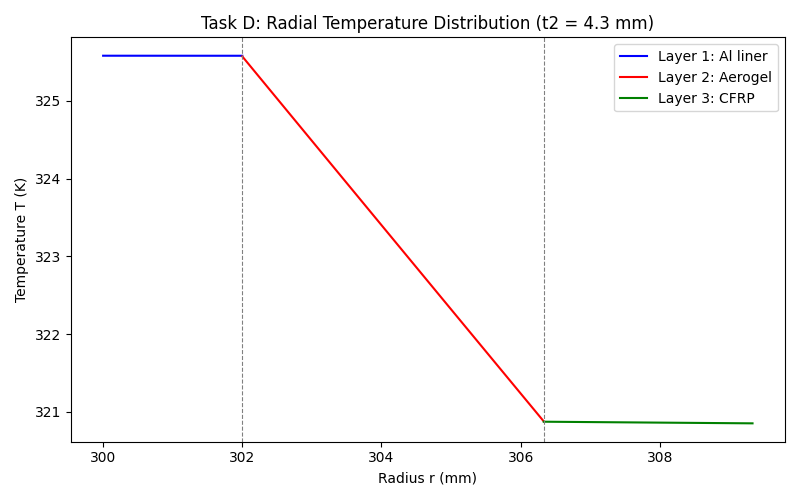
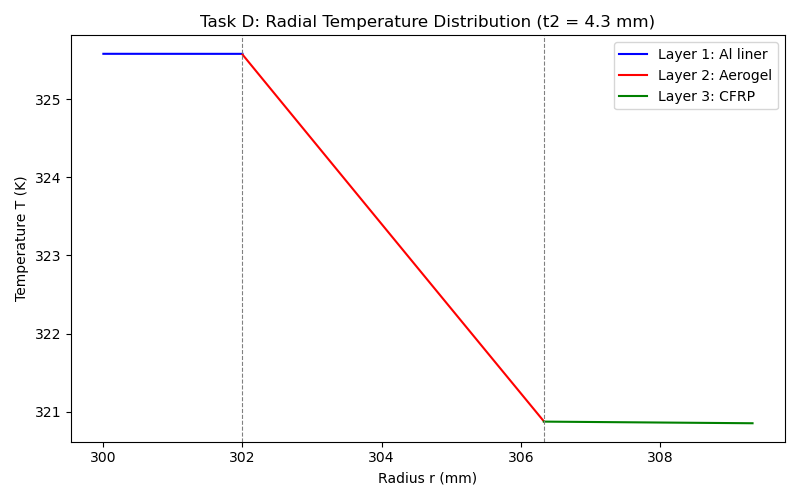
final——without comment

diff --git a/Heat_Transfer/Computing HW 1/cp1_base.py b/Heat_Transfer/Computing HW 1/cp1_base.py
@@ -1,6 +1,8 @@
 """
 cp1_base.py — 530.334 Heat Transfer, CP1
 Satellite thermal model: 1D radial steady-state solver.
+Method: Finite-Difference Method (FDM) with Picard iteration.
+Convergence criterion: max node temperature change < 1e-6 K.
 """
 
 import numpy as np
@@ -29,23 +31,6 @@ def k2(T):
 
 def k3(T):
     return 6.0 * (1.0 + 1.0e-4 * (T - 300.0))
-
-# FD marching: integrate dT/dr = -Q/(4*pi*r^2*k(T)) using RK2
-def _march_layer(r_start, r_end, T_start, k_func, Q, N=20):
-    r_arr = np.linspace(r_start, r_end, N)
-    dr = r_arr[1] - r_arr[0]
-    T_arr = np.zeros(N)
-    T_arr[0] = T_start
-
-    for i in range(N - 1):
-        r, T = r_arr[i], T_arr[i]
-        dTdr1 = -Q / (4.0 * np.pi * r**2 * k_func(T))
-        r_m = r + 0.5 * dr
-        T_m = T + 0.5 * dr * dTdr1
-        dTdr2 = -Q / (4.0 * np.pi * r_m**2 * k_func(T_m))
-        T_arr[i + 1] = T + dr * dTdr2
-
-    return r_arr, T_arr
 
 # Contact resistances [m^2*K/W]
 RC12_PP = 2.0e-4  # Al / Aerogel at r1
@@ -87,53 +72,180 @@ def Q_rad_net(Ts, r3):
                 - a * G_SOL_FAC * G_SOL
                 - e * G_MERC_FAC * G_MERC)
 
-# Core solver: march from outer surface inward
-def solve(t2, Q_int=Q_INT_DEFAULT, N=20):
+def solve(t2, Q_int=Q_INT_DEFAULT, N=20, tol=1e-6, max_iter=500, omega=1.0):
     r0, r1, r2, r3 = get_radii(t2)
     Q = Q_int
 
-    # Outer surface temp from radiation balance
+    # Outer surface temperature from radiation balance
     Ts = brentq(lambda T: Q_rad_net(T, r3) - Q, 100.0, 1500.0)
 
-    # Layer 3 (CFRP) inward
-    r_L3, T_L3 = _march_layer(r3, r2, Ts, k3, Q, N)
-    T2p = T_L3[-1]
+    # FDM node arrays for each layer
+    r_L1 = np.linspace(r0, r1, N)
+    r_L2 = np.linspace(r1, r2, N)
+    r_L3 = np.linspace(r2, r3, N)
+    dr1 = r_L1[1] - r_L1[0]
+    dr2 = r_L2[1] - r_L2[0]
+    dr3 = r_L3[1] - r_L3[0]
 
-    # Contact resistance at r2
-    dTc23 = Q * RC23_PP / (4.0 * np.pi * r2**2)
-    T2m = T2p + dTc23
+    # Unknowns: [Tg, T1[0..N-1], T2[0..N-1], T3[0..N-1]]
+    n_total = 1 + 3 * N
+    i1 = 1
+    i2 = N + 1
+    i3 = 2 * N + 1
 
-    # Layer 2 (Aerogel) inward
-    r_L2, T_L2 = _march_layer(r2, r1, T2m, k2, Q, N)
-    T1p = T_L2[-1]
+    T_vec = np.zeros(n_total)
+    T_vec[0]       = Ts + 40
+    T_vec[i1:i1+N] = np.linspace(Ts + 30, Ts + 20, N)
+    T_vec[i2:i2+N] = np.linspace(Ts + 20, Ts + 5,  N)
+    T_vec[i3:i3+N] = np.linspace(Ts + 5,  Ts,      N)
 
-    # Contact resistance at r1
-    dTc12 = Q * RC12_PP / (4.0 * np.pi * r1**2)
-    T1m = T1p + dTc12
+    converged = False
+    for iteration in range(max_iter):
+        T_old = T_vec.copy()
 
-    # Layer 1 (Al) inward
-    r_L1, T_L1 = _march_layer(r1, r0, T1m, k1, Q, N)
-    Tw = T_L1[-1]
+        Tg_c = T_old[0]
+        T1c  = T_old[i1:i1+N]
+        T2c  = T_old[i2:i2+N]
+        T3c  = T_old[i3:i3+N]
 
-    # Cavity gas temp from convection balance
-    Tg = brentq(
-        lambda T: h_inner(T, Tw) * 4.0 * np.pi * r0**2 * (T - Tw) - Q_int,
-        Tw + 1e-3, Tw + 2000.0
-    )
+        A = np.zeros((n_total, n_total))
+        b = np.zeros(n_total)
 
-    # Build outward profile (reverse each layer)
-    r_profile = np.concatenate([r_L1[::-1], r_L2[::-1], r_L3[::-1]])
-    T_profile = np.concatenate([T_L1[::-1], T_L2[::-1], T_L3[::-1]])
+        # Row 0: cavity gas energy balance
+        hi = h_inner(Tg_c, T1c[0])
+        a0 = hi * r0**2
+        A[0, 0]  =  a0
+        A[0, i1] = -a0
+        b[0] = Q_int / (4.0 * np.pi)
+
+        # Layer 1 (Al): node 0 — convection in = conduction out
+        r_ph = 0.5 * (r_L1[0] + r_L1[1])
+        k_ph = k1(0.5 * (T1c[0] + T1c[1]))
+        cp = r_ph**2 * k_ph / dr1
+        A[i1, 0]    =  a0
+        A[i1, i1]   = -(a0 + cp)
+        A[i1, i1+1] =  cp
+
+        # Interior nodes
+        for i in range(1, N - 1):
+            r_ph = 0.5 * (r_L1[i] + r_L1[i+1])
+            r_mh = 0.5 * (r_L1[i] + r_L1[i-1])
+            kp = k1(0.5 * (T1c[i] + T1c[i+1]))
+            km = k1(0.5 * (T1c[i] + T1c[i-1]))
+            cp = r_ph**2 * kp / dr1
+            cm = r_mh**2 * km / dr1
+            row = i1 + i
+            A[row, row - 1] =  cm
+            A[row, row]     = -(cm + cp)
+            A[row, row + 1] =  cp
+
+        # Node N-1 at r1: conduction in = contact resistance out
+        r_mh = 0.5 * (r_L1[N-2] + r_L1[N-1])
+        km = k1(0.5 * (T1c[N-2] + T1c[N-1]))
+        cm = r_mh**2 * km / dr1
+        cr = r1**2 / RC12_PP
+        row = i1 + N - 1
+        A[row, row - 1] =  cm
+        A[row, row]     = -(cm + cr)
+        A[row, i2]      =  cr
+
+        # Layer 2 (Aerogel): node 0 — contact resistance in = conduction out
+        r_ph = 0.5 * (r_L2[0] + r_L2[1])
+        kp = k2(0.5 * (T2c[0] + T2c[1]))
+        cp = r_ph**2 * kp / dr2
+        cr = r1**2 / RC12_PP
+        A[i2, i1 + N - 1] =  cr
+        A[i2, i2]          = -(cr + cp)
+        A[i2, i2 + 1]     =  cp
+
+        # Interior nodes
+        for i in range(1, N - 1):
+            r_ph = 0.5 * (r_L2[i] + r_L2[i+1])
+            r_mh = 0.5 * (r_L2[i] + r_L2[i-1])
+            kp = k2(0.5 * (T2c[i] + T2c[i+1]))
+            km = k2(0.5 * (T2c[i] + T2c[i-1]))
+            cp = r_ph**2 * kp / dr2
+            cm = r_mh**2 * km / dr2
+            row = i2 + i
+            A[row, row - 1] =  cm
+            A[row, row]     = -(cm + cp)
+            A[row, row + 1] =  cp
+
+        # Node N-1 at r2: conduction in = contact resistance out
+        r_mh = 0.5 * (r_L2[N-2] + r_L2[N-1])
+        km = k2(0.5 * (T2c[N-2] + T2c[N-1]))
+        cm = r_mh**2 * km / dr2
+        cr = r2**2 / RC23_PP
+        row = i2 + N - 1
+        A[row, row - 1] =  cm
+        A[row, row]     = -(cm + cr)
+        A[row, i3]      =  cr
+
+        # Layer 3 (CFRP): node 0 — contact resistance in = conduction out
+        r_ph = 0.5 * (r_L3[0] + r_L3[1])
+        kp = k3(0.5 * (T3c[0] + T3c[1]))
+        cp = r_ph**2 * kp / dr3
+        cr = r2**2 / RC23_PP
+        A[i3, i2 + N - 1] =  cr
+        A[i3, i3]          = -(cr + cp)
+        A[i3, i3 + 1]     =  cp
+
+        # Interior nodes
+        for i in range(1, N - 1):
+            r_ph = 0.5 * (r_L3[i] + r_L3[i+1])
+            r_mh = 0.5 * (r_L3[i] + r_L3[i-1])
+            kp = k3(0.5 * (T3c[i] + T3c[i+1]))
+            km = k3(0.5 * (T3c[i] + T3c[i-1]))
+            cp = r_ph**2 * kp / dr3
+            cm = r_mh**2 * km / dr3
+            row = i3 + i
+            A[row, row - 1] =  cm
+            A[row, row]     = -(cm + cp)
+            A[row, row + 1] =  cp
+
+        # Node N-1 at r3: T = Ts
+        row = i3 + N - 1
+        A[row, row] = 1.0
+        b[row] = Ts
+
+        T_new = np.linalg.solve(A, b)
+        T_vec = omega * T_new + (1.0 - omega) * T_old
+
+        if np.max(np.abs(T_vec - T_old)) < tol:
+            converged = True
+            break
+
+    if not converged:
+        print(f"WARNING: Picard did not converge in {max_iter} iterations "
+              f"(max dT = {np.max(np.abs(T_vec - T_old)):.2e} K)")
+
+    Tg     = T_vec[0]
+    T1_arr = T_vec[i1:i1+N]
+    T2_arr = T_vec[i2:i2+N]
+    T3_arr = T_vec[i3:i3+N]
+
+    Tw  = T1_arr[0]
+    T1m = T1_arr[-1]
+    T1p = T2_arr[0]
+    T2m = T2_arr[-1]
+    T2p = T3_arr[0]
+
+    dTc12 = T1m - T1p
+    dTc23 = T2m - T2p
+
+    r_profile = np.concatenate([r_L1, r_L2, r_L3])
+    T_profile = np.concatenate([T1_arr, T2_arr, T3_arr])
 
     return {
         'Tg': Tg, 'Tw': Tw,
         'T1m': T1m, 'T1p': T1p,
         'T2m': T2m, 'T2p': T2p,
-        'Ts': Ts, 'Q': Q,
+        'Ts': T3_arr[-1], 'Q': Q,
         'dTc12': dTc12, 'dTc23': dTc23,
         'r0': r0, 'r1': r1, 'r2': r2, 'r3': r3,
         't2': t2, 'Q_int': Q_int,
         'r_profile': r_profile, 'T_profile': T_profile, 'N': N,
+        'iterations': iteration + 1,
     }
 
 def temperature_profile(sol):
@@ -142,9 +254,10 @@ def temperature_profile(sol):
 if __name__ == '__main__':
     sol = solve(t2=0.010)
     print("Baseline (t2=10mm, Q_int=50W)")
+    print(f"Converged in {sol['iterations']} Picard iterations")
     print(f"Tg = {sol['Tg']:.3f} K, {'PASS' if sol['Tg'] <= 360 else 'FAIL'}")
     print(f"Tw = {sol['Tw']:.3f} K")
     print(f"Ts = {sol['Ts']:.3f} K, {'PASS' if sol['Ts'] <= 450 else 'FAIL'}")
-    print(f"Q = {sol['Q']:.1f} W")
+    print(f"Q  = {sol['Q']:.1f} W")
     print(f"dTc12 = {sol['dTc12']:.4f} K")
     print(f"dTc23 = {sol['dTc23']:.4f} K")

diff --git a/Heat_Transfer/Computing HW 1/cp1_tasks.py b/Heat_Transfer/Computing HW 1/cp1_tasks.py
@@ -9,7 +9,7 @@ import cp1_base as base
 
 
 def task_B():
-    print("\nTASK B -- Baseline (t2=10mm, Q_int=50W)")
+    print("\nTASK B")
     sol = base.solve(t2=0.010)
 
     print(f"Tg = {sol['Tg']:.3f} K, {'PASS' if sol['Tg'] <= 360 else 'FAIL'}")
@@ -25,7 +25,7 @@ def task_B():
 
 
 def task_C():
-    print("\nTASK C -- Max insulation thickness")
+    print("\nTASK C")
     t2_arr = np.linspace(base.T2_MIN, base.T2_MAX, 200)
     Tg_arr = np.zeros_like(t2_arr)
     Ts_arr = np.zeros_like(t2_arr)
@@ -43,23 +43,36 @@ def task_C():
     else:
         print("No feasible t2 found")
 
-    fig, ax = plt.subplots(figsize=(8, 5))
-    ax.plot(t2_arr * 1e3, Tg_arr, 'r-', label='Tg (cavity gas)')
-    ax.plot(t2_arr * 1e3, Ts_arr, 'b-', label='Ts (outer surface)')
-    ax.axhline(360, color='r', linestyle='--', label='Tg limit (360 K)')
-    ax.axhline(450, color='b', linestyle='--', label='Ts limit (450 K)')
-    ax.set_xlabel('Aerogel Thickness t2 (mm)')
-    ax.set_ylabel('Temperature (K)')
-    ax.set_title('Task C: Temperature vs Aerogel Thickness')
-    ax.legend()
-    plt.tight_layout()
-    plt.savefig('task_C.png')
+    fig1, ax1 = plt.subplots(figsize=(7, 5))
+    ax1.plot(t2_arr * 1e3, Tg_arr, 'b-', linewidth=1.5)
+    ax1.axhline(360, color='r', linestyle='--', linewidth=1, label='360 K limit')
+    if t2_max is not None:
+        ax1.axvline(t2_max * 1e3, color='gray', linestyle=':', linewidth=0.8)
+    ax1.set_xlabel('Aerogel thickness $t_2$ (mm)')
+    ax1.set_ylabel('$T_g$ (K)')
+    ax1.set_title('Cavity Gas Temperature vs Aerogel Thickness')
+    ax1.legend()
+    ax1.grid(True, alpha=0.3)
+    fig1.tight_layout()
+    fig1.savefig('task_C_Tg.png', dpi=150)
+
+    fig2, ax2 = plt.subplots(figsize=(7, 5))
+    ax2.plot(t2_arr * 1e3, Ts_arr, 'b-', linewidth=1.5)
+    ax2.axhline(450, color='r', linestyle='--', linewidth=1, label='450 K limit')
+    ax2.set_xlabel('Aerogel thickness $t_2$ (mm)')
+    ax2.set_ylabel('$T_s$ (K)')
+    ax2.set_title('Outer Surface Temperature vs Aerogel Thickness')
+    ax2.legend()
+    ax2.grid(True, alpha=0.3)
+    fig2.tight_layout()
+    fig2.savefig('task_C_Ts.png', dpi=150)
+
     plt.show()
     return t2_max
 
 
 def task_D(t2_max):
-    print(f"\nTASK D -- T(r) profile (t2={t2_max*1e3:.2f}mm)")
+    print(f"\nTASK D")
     sol = base.solve(t2_max, N=100)
     r_arr, T_arr = base.temperature_profile(sol)
     N = sol['N']
@@ -84,7 +97,7 @@ def task_D(t2_max):
 
 
 def task_E(t2_max):
-    print(f"\nTASK E -- Sensitivity (t2={t2_max*1e3:.2f}mm)")
+    print(f"\nTASK E")
     Q_arr = np.linspace(20.0, 200.0, 200)
     Tg_arr = np.zeros_like(Q_arr)
 
